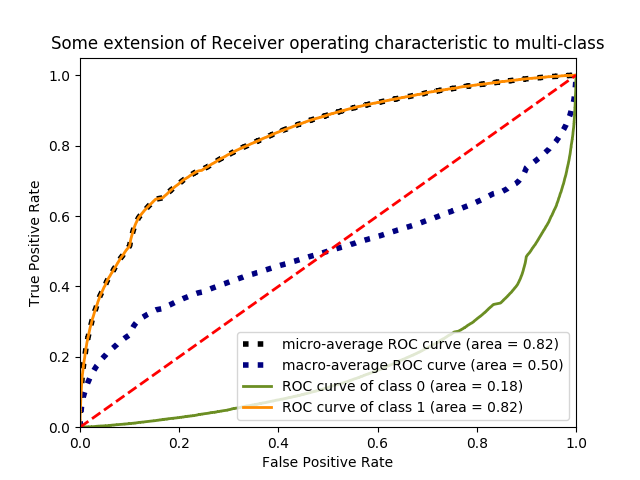
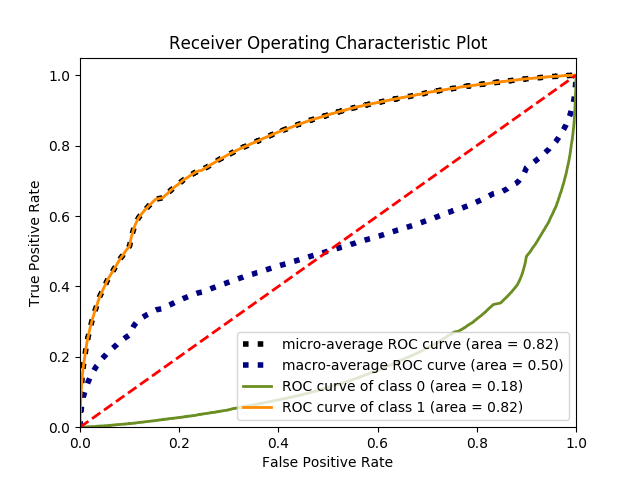
Finished running ROC Plots, combined plots for models

Changed region(s): [[0.0625, 0.0625, 0.9375, 0.125]]

diff --git a/Python_Files/predict_model.py b/Python_Files/predict_model.py
@@ -169,25 +169,26 @@ def multiROCplot(probs_list, Y_test,save,models):
     assert(len(models) == len(probs_list));
     fpr = dict()
     tpr = dict()
+    roc_auc = dict()
     for j in range(0,len(probs_list)):
         for i in range(0,2):
             fpr[(j,i)], tpr[(j,i)], _ = roc_curve(Y_test,[probs_list[j][k][i] for k in range(len(probs_list[0]))])
             roc_auc[(j,i)] = auc(fpr[(j,i)],tpr[(j,i)])
     lw = 2
     pyplot.figure()
-    color_list = cycle([['olivedrab', 'darkorange'], ['darkorchid','navy'],['black','goldenrod']])
+    color_list = cycle([['olivedrab', 'darkorange'], ['darkorchid','navy'],['black','firebrick']])
     for j,colors in zip(range(0,len(probs_list)),color_list):
         for k,color in zip(range(0,2),colors):
-        pyplot.plot(fpr[(j,k)], tpr[(j,k)], color=color, lw=lw,label='ROC curve of class {0} (area = {1:0.2f}), Model: {}'.format(k, roc_auc[(j,k)],models[j]))
+            pyplot.plot(fpr[(j,k)], tpr[(j,k)], color=color, lw=lw,label='ROC curve of class {0} (area = {1:0.2f}), Model: {2}'.format(k, roc_auc[(j,k)],models[j]))
     pyplot.plot([0, 1], [0, 1], 'r--', lw=lw)
     pyplot.xlim([0.0, 1.0])
     pyplot.ylim([0.0, 1.05])
     pyplot.xlabel('False Positive Rate')
     pyplot.ylabel('True Positive Rate')
     pyplot.title('Multi-Model Receiver Operating Characteristic Plot')
-    pyplot.legend(loc="lower right")
+    l = pyplot.legend(loc='upper center', bbox_to_anchor=(0.5,-0.1))
     pyplot.show()
-    pyplot.savefig(save)
+    pyplot.savefig(save, bbox_extra_artists=(l,), bbox_inches='tight')
 
 def ROCplot(probs,Y_test,save):
     fpr = dict()
